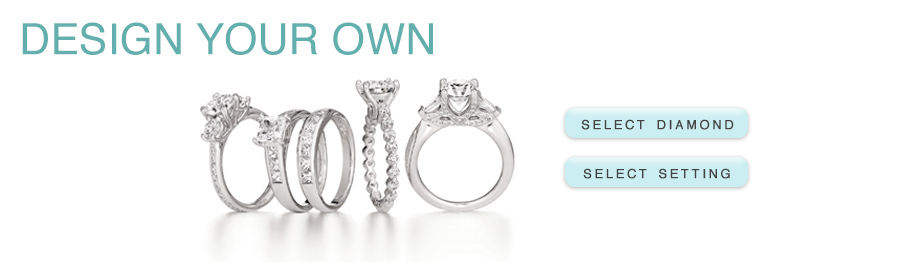
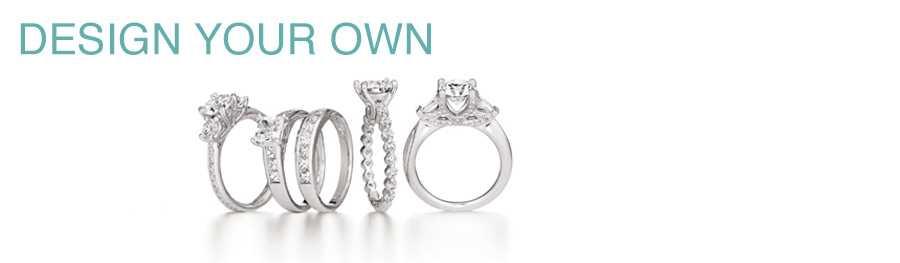
tuesdaychanges

diff --git a/index.html b/index.html
@@ -2,8 +2,11 @@
 <html lang="en">
 <head>
 <meta charset="utf-8" />
+<meta name="viewport" content="width-device-width, initial-scale=1, maximum-scale=1">
+
 <title>Bremerton Jewelers</title>
 <link rel="stylesheet" type="text/css" href="css/main.css">
+
 </head>
 <body>
 <div id="wrapper">
@@ -27,13 +30,26 @@
 	</ul>
 </nav>
 
-<div class="mainimagebox"><a href="engagement.html"><img src="images/mainphoto.jpg" border=0></a></div>
+<div class="mainimagebox">
+
+<div class="indeximage">
+
+      <img src="images/mainphoto.jpg" alt="" />
+      
+      <h4><a href="engagement.html" class="button">shop now</a></h4></div>
+</div>
 
 <div class="leftbox"><img src="images/leftbox.jpg"></div>
 
 <div class="rightbox"><img src="images/rightbox.jpg"></div>
 
-<div class="bottommainbox"><img src="images/designyourown.jpg"></div>
+<div class="bottommainbox">
+
+<div class="designimage">
+<img src="images/designyourown.jpg">
+<h5><a href="#" class="button">select diamond</a></h5>
+<h6><a href="#" class="button">select setting</a></h6>
+</div>
 
 
 </div>

diff --git a/css/main.css b/css/main.css
@@ -164,18 +164,38 @@ strong {
     text-align: center; 
 }
 
-figure, figcaption {
-
-display: block;
-font-style: normal;
-font-family: Helvetica, sans-serif;
-
+.indeximage { 
+   position: relative; 
+   width: 100%; /* for IE 6 */
 }
 
-figcaption {
+.designimage { 
+   position: relative; 
+   width: 100%; /* for IE 6 */
+}
 
-font-style: normal;
-font-family: Helvetica, sans-serif;
+h4 { 
+   position: absolute; 
+   top: 55%; 
+   left: 8.5%; 
+   width: 100%; 
+}
+
+h5 { 
+   position: absolute; 
+   top: 25%; 
+   left: 65%; 
+   width: 100%; 
+   font-size: 1em;
+}
+
+h6 { 
+   position: absolute; 
+   top: 38%; 
+   left: 65%; 
+   width: 100%;
+   font-size: 1em;
+
 }
 
 /*-------------------------form css-------------------------*/
@@ -334,7 +354,7 @@ a:hover {
 	font-variant:small-caps;
 	height:35px;
 	line-height:35px;
-	width:158px;
+	width:17%;
 	text-decoration:none;
 	text-align:center;
 	text-shadow:1px 1px 0px #cbeef2;

diff --git a/bracelets.html b/bracelets.html
@@ -2,8 +2,11 @@
 <html lang="en">
 <head>
 <meta charset="utf-8" />
+<meta name="viewport" content="width-device-width, initial-scale=1, maximum-scale=1">
+
 <title>Bremerton Jewelers</title>
 <link rel="stylesheet" type="text/css" href="css/main.css">
+
 </head>
 <body>
 <div id="wrapper">
@@ -32,7 +35,6 @@
 <div class="engagementringcontainter">
 
 <h2>our featured bracelets</h2>
-
 <p>
 <div class="ringcontainer">
 

diff --git a/contact.html b/contact.html
@@ -2,6 +2,8 @@
 <html lang="en">
 <head>
 <meta charset="utf-8" />
+<meta name="viewport" content="width-device-width, initial-scale=1, maximum-scale=1">
+
 <title>Bremerton Jewelers</title>
 <link rel="stylesheet" type="text/css" href="css/main.css">
 </head>

diff --git a/engagement.html b/engagement.html
@@ -2,6 +2,8 @@
 <html lang="en">
 <head>
 <meta charset="utf-8" />
+<meta name="viewport" content="width-device-width, initial-scale=1, maximum-scale=1">
+
 <title>Bremerton Jewelers</title>
 <link rel="stylesheet" type="text/css" href="css/main.css">
 </head>

diff --git a/watches.html b/watches.html
@@ -2,6 +2,8 @@
 <html lang="en">
 <head>
 <meta charset="utf-8" />
+<meta name="viewport" content="width-device-width, initial-scale=1, maximum-scale=1">
+
 <title>Bremerton Jewelers</title>
 <link rel="stylesheet" type="text/css" href="css/main.css">
 </head>

diff --git a/wedding.html b/wedding.html
@@ -2,6 +2,8 @@
 <html lang="en">
 <head>
 <meta charset="utf-8" />
+<meta name="viewport" content="width-device-width, initial-scale=1, maximum-scale=1">
+
 <title>Bremerton Jewelers</title>
 <link rel="stylesheet" type="text/css" href="css/main.css">
 </head>
